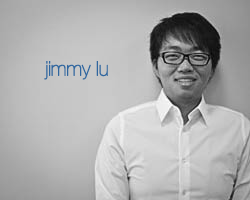
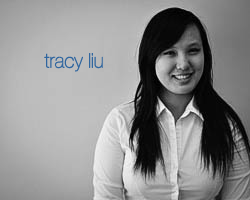
made some changes

diff --git a/app/controllers/pages_controller.rb b/app/controllers/pages_controller.rb
@@ -10,7 +10,7 @@ class PagesController < ApplicationController
   def brothers
     flash[:notice] = ""
     @values = []
-    Dir.new("#{Rails.root}/app/assets/images/version1").each do |entry|
+    Dir.new("#{Rails.root}/app/assets/images/version2").each do |entry|
       if not File.directory?(entry)
         @values.push(entry)
       end
